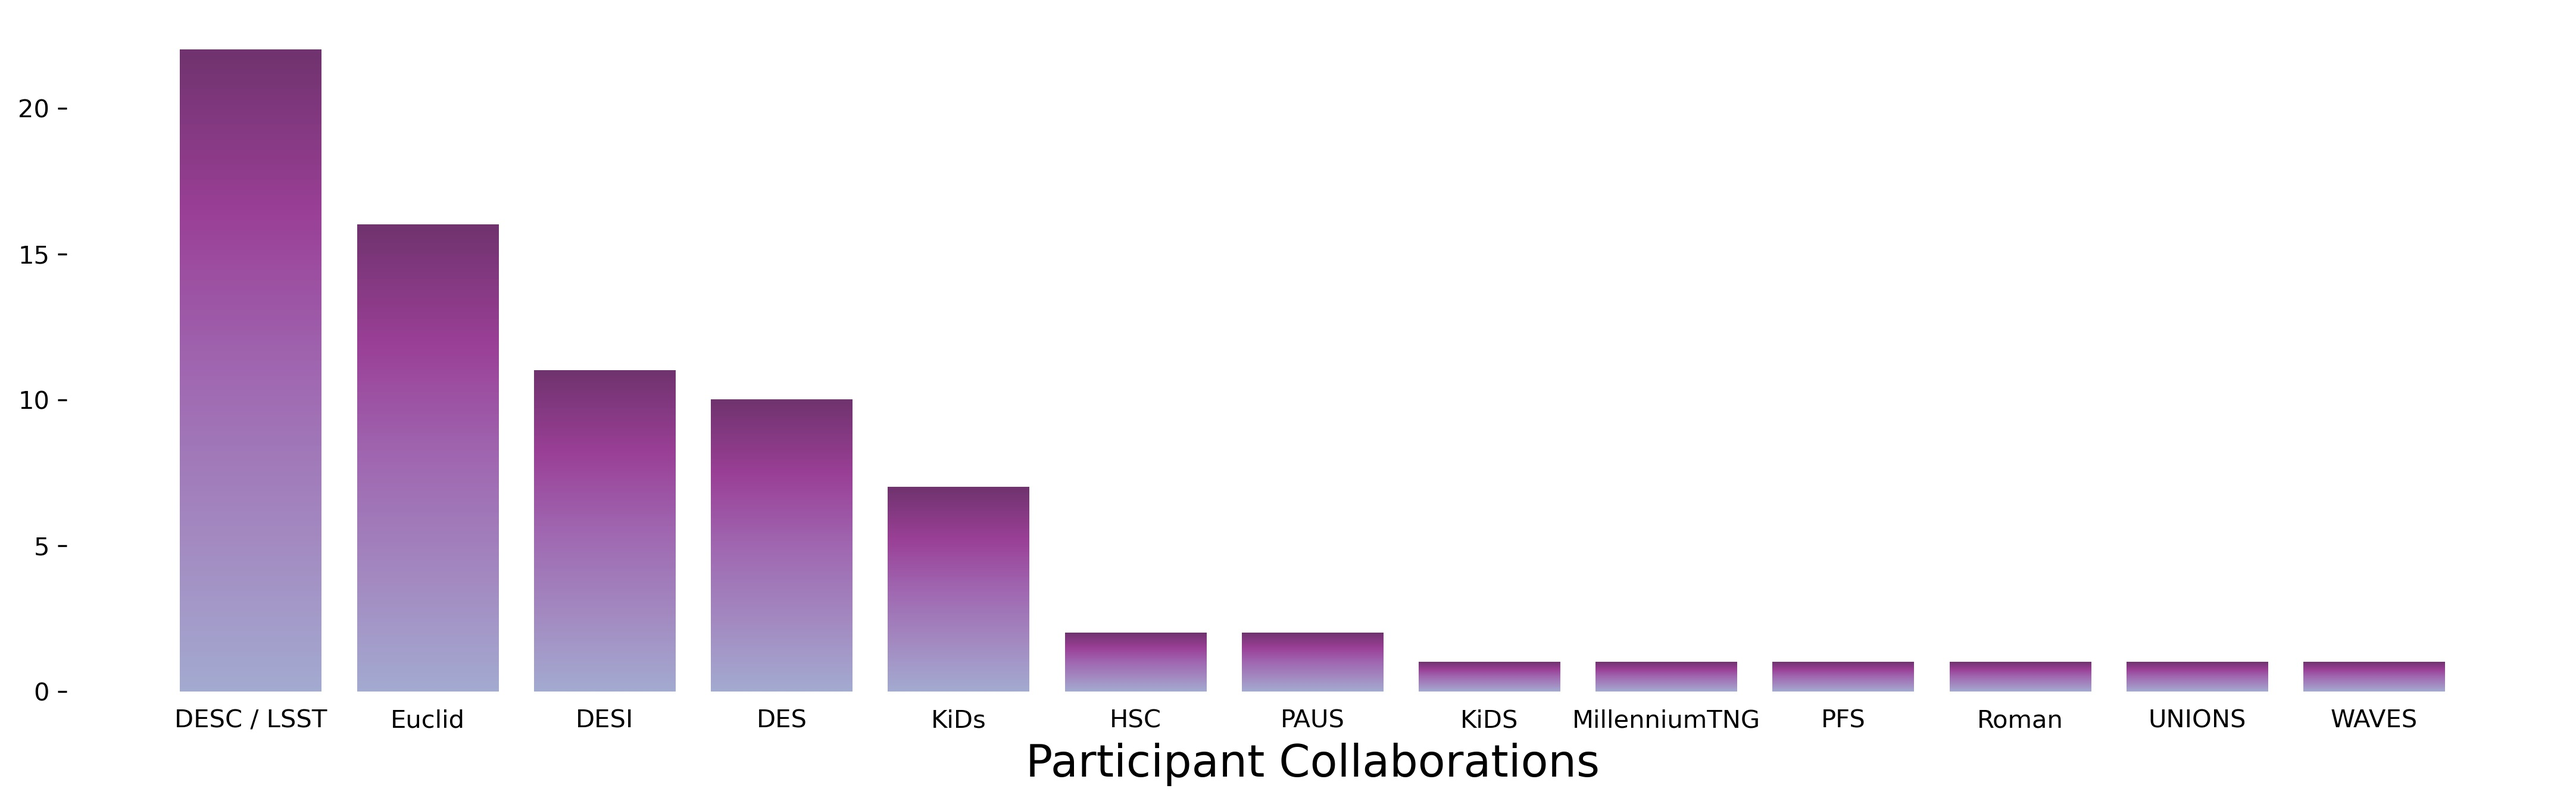
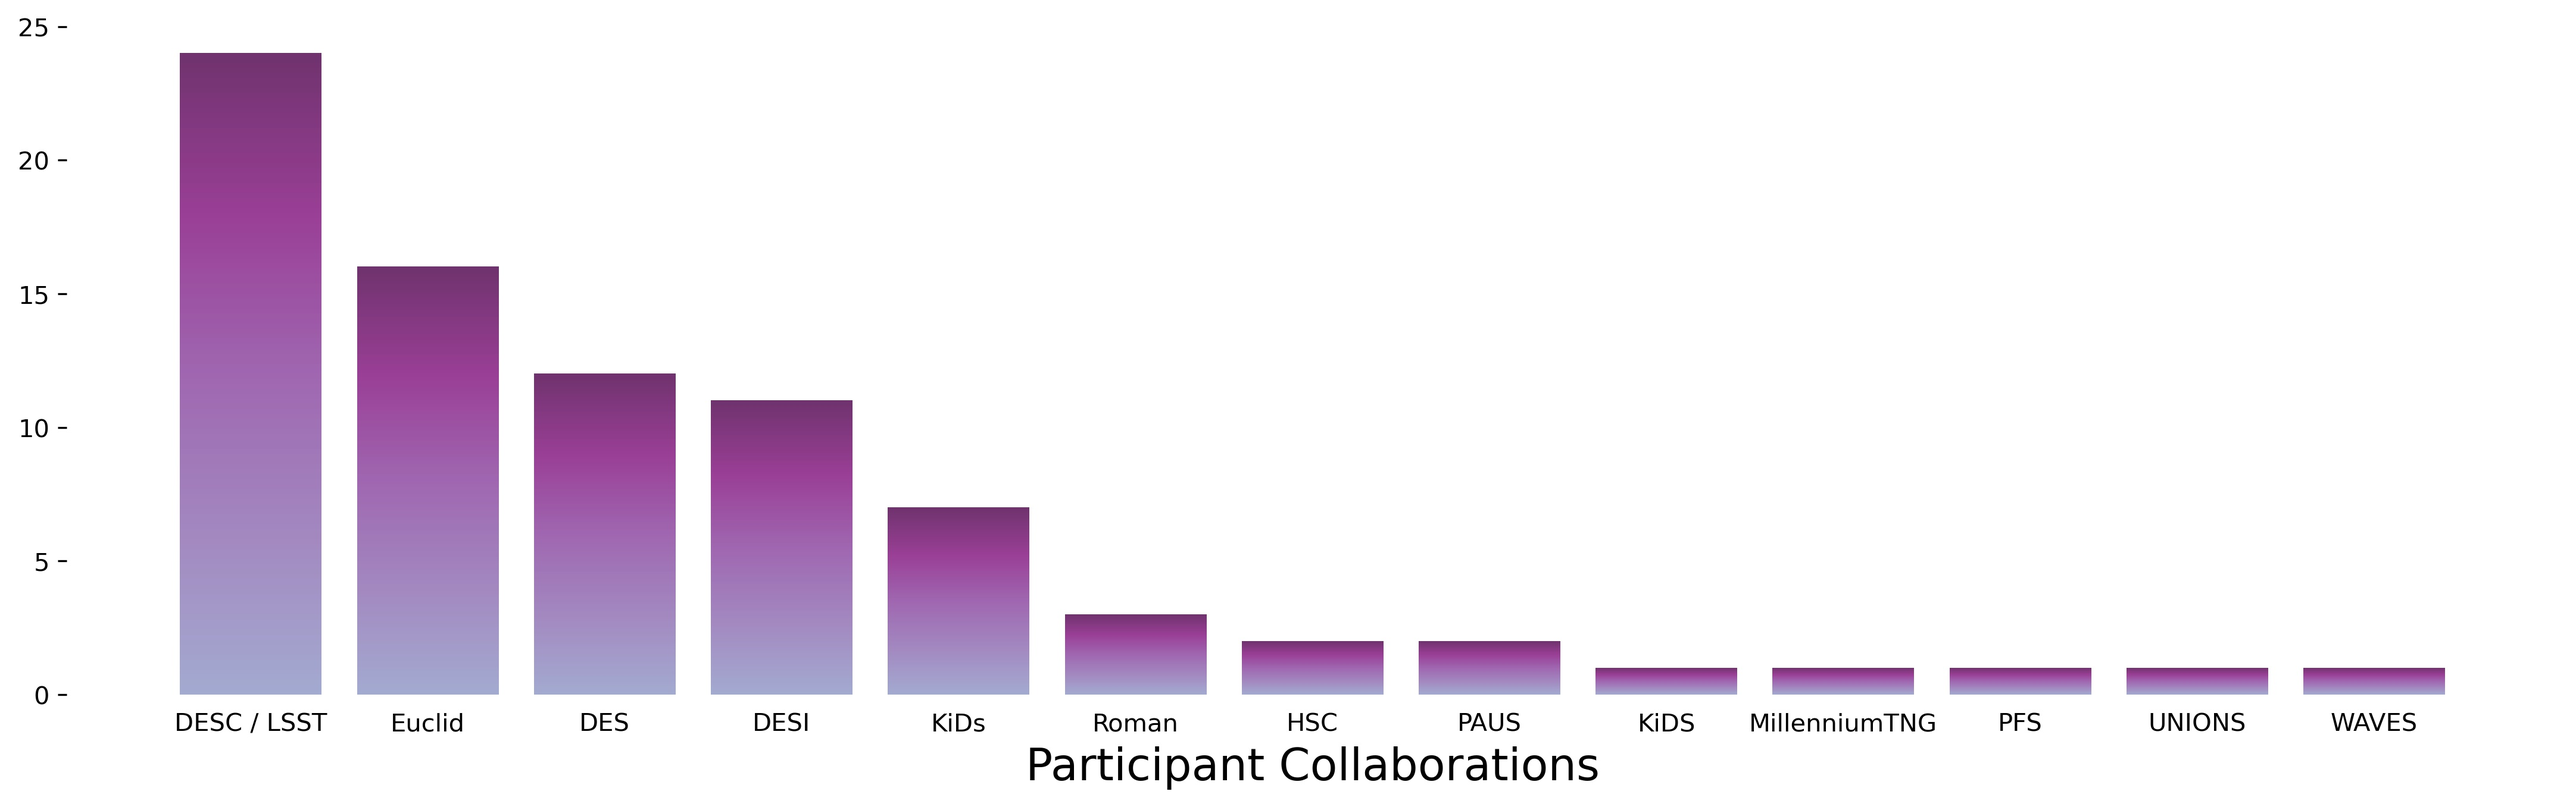
updating participants

diff --git a/docs/participants.md b/docs/participants.md
@@ -208,66 +208,78 @@ order: 5
     </tr>
     <tr>
       <td>32</td>
+      <td>Paul Rogozenski</td>
+      <td>University of Arizona</td>
+      <td>Virtual</td>
+    </tr>
+    <tr>
+      <td>33</td>
       <td>Simon Samuroff</td>
       <td>Northeastern University</td>
       <td>In Person</td>
     </tr>
     <tr>
-      <td>33</td>
+      <td>34</td>
       <td>Niko Sarcevic</td>
       <td>Newcastle University</td>
       <td>In Person</td>
     </tr>
     <tr>
-      <td>34</td>
+      <td>35</td>
       <td>Jingjing Shi</td>
       <td>Kavli IPMU</td>
       <td>Virtual</td>
     </tr>
     <tr>
-      <td>35</td>
+      <td>36</td>
       <td>John Suárez-Pérez</td>
       <td>NaN</td>
       <td>Virtual</td>
     </tr>
     <tr>
-      <td>36</td>
+      <td>37</td>
       <td>Isaac Tutusaus</td>
       <td>IRAP-OMP</td>
       <td>Virtual</td>
     </tr>
     <tr>
-      <td>37</td>
+      <td>38</td>
       <td>Nick Van Alfen</td>
       <td>Northeastern University</td>
       <td>In Person</td>
     </tr>
     <tr>
-      <td>38</td>
+      <td>39</td>
       <td>Leonel Medina Varela</td>
       <td>University of Texas at Dallas</td>
       <td>Virtual</td>
     </tr>
     <tr>
-      <td>39</td>
+      <td>40</td>
       <td>Carter Williams</td>
       <td>Northeastern University</td>
       <td>Virtual</td>
     </tr>
     <tr>
-      <td>40</td>
+      <td>41</td>
       <td>Anna Wittje</td>
       <td>Ruhr-University Bochum</td>
       <td>Virtual</td>
     </tr>
     <tr>
-      <td>41</td>
+      <td>42</td>
       <td>Zhuowen (Ben) Zhang</td>
       <td>U. Chicago</td>
       <td>In Person</td>
     </tr>
     <tr>
-      <td>42</td>
+      <td>43</td>
+      <td>Kunhao Zhong</td>
+      <td>University of Pennsylvania</td>
+      <td>Virtual</td>
+    </tr>
+    <tr>
+      <td>44</td>
       <td>Marloes van Loon</td>
       <td>Utrecht University</td>
       <td>Virtual</td>
